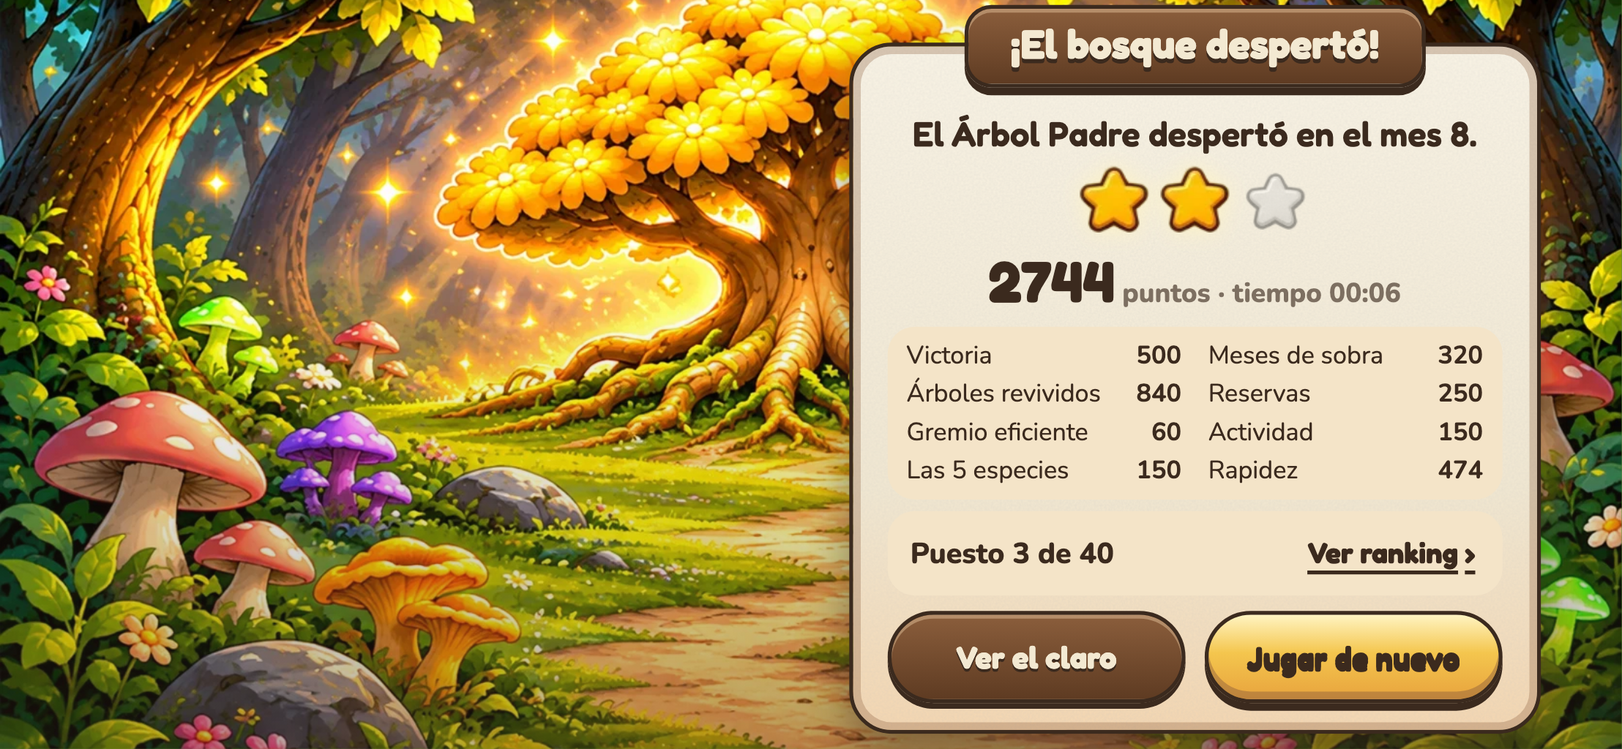
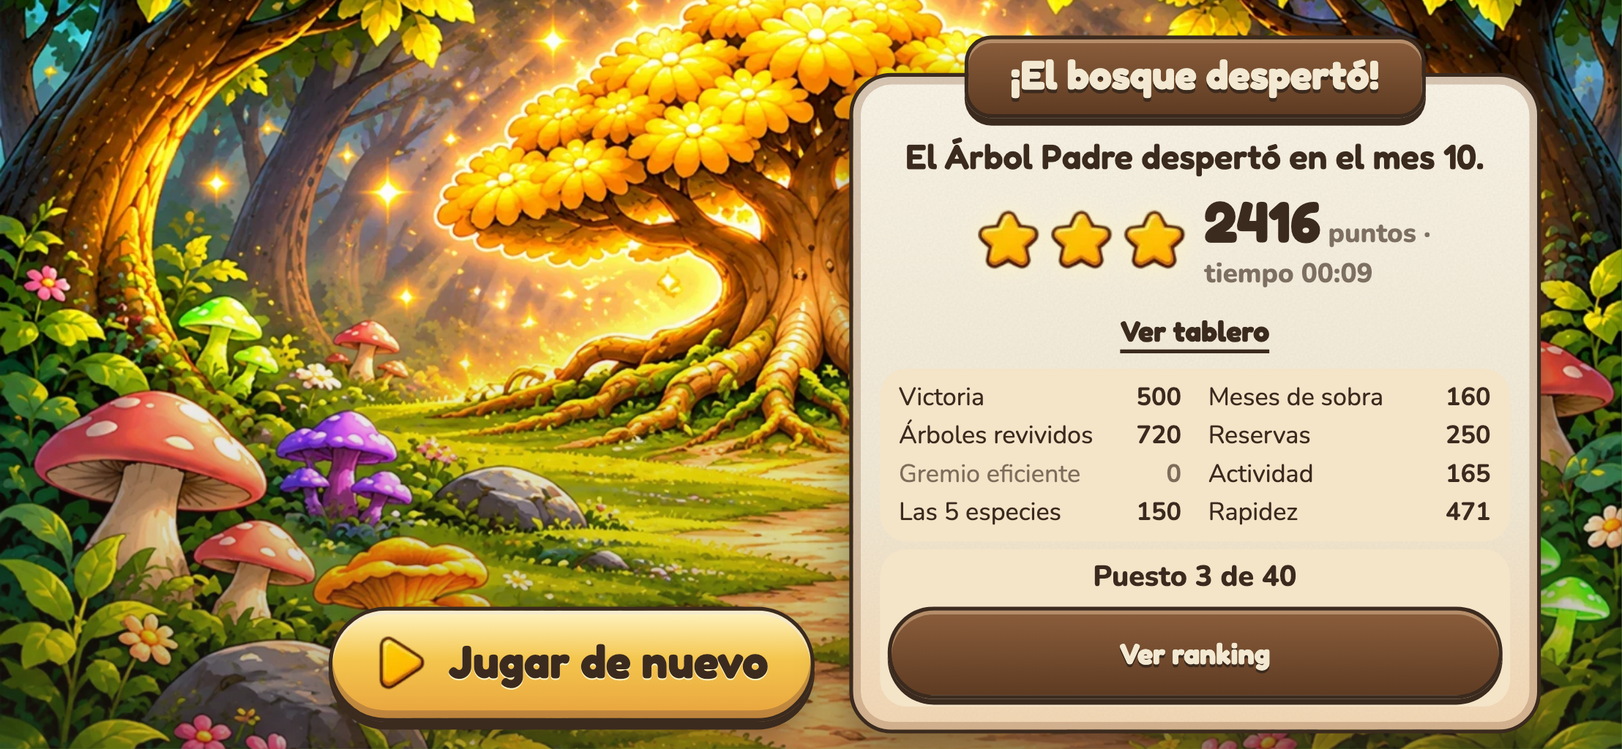
feat(037): «Jugar de nuevo» fuera de la carta y caja del ranking
Según el orden que pidió Mario: «Jugar de nuevo» va debajo de la carta,
grande y con icono como «Nueva partida»; «Ver el claro» pasa a «Ver
tablero», un enlace bajo el puntaje; la caja del ranking tiene «Registra
tu puntaje» como principal (con el foco) y «Ver ranking» como secundario.
En horizontal bajo, el botón va a la izquierda de la carta y estrellas y
puntaje comparten fila para que todo entre.

diff --git a/src/styles.css b/src/styles.css
@@ -1054,15 +1054,15 @@ button { font: inherit; color: inherit; }
 @keyframes new-pulse { 50% { transform: scale(1.08); } }
 /* Capas (022): hojas, cartas y pantallas suben 24 px y se funden con el fondo; al cerrar, bajan y salen sin atrapar toques. */
 :is(.sheet, .story, .screen):not([hidden]) { animation: fade-in var(--motion-standard) var(--ease-settle); }
-.sheet__panel, .story__card, .screen__panel.is-entering { animation: layer-in var(--motion-standard) var(--ease-settle); }
+.sheet__panel, .story__card, .story__again, .screen__panel.is-entering { animation: layer-in var(--motion-standard) var(--ease-settle); }
 .story[data-kind='mage'] .story__card { animation: layer-in var(--motion-narrative) var(--ease-soft); }
-.story__card.is-still { animation: none; }
+.story__card.is-still, .story__stack.is-still :is(.story__card, .story__again) { animation: none; }
 /* Intro: la carta nueva entra desde la derecha mientras la anterior sale a la izquierda; el punto activo crece. */
 .story__card.is-in { animation: card-in var(--motion-standard) var(--ease-settle); }
 .story__card.is-out { pointer-events: none; animation: card-out var(--motion-fast) var(--ease-leave) forwards; }
 .story__dot.is-active { animation: dot-in var(--motion-fast) var(--ease-springy); }
 :is(.sheet, .story, .screen).is-leaving { pointer-events: none; animation: fade-out var(--motion-fast) var(--ease-leave) forwards; }
-.sheet.is-leaving .sheet__panel, .story.is-leaving .story__card, .screen.is-leaving .screen__panel { animation: layer-out var(--motion-fast) var(--ease-leave) forwards; }
+.sheet.is-leaving .sheet__panel, .story.is-leaving .story__card, .story.is-leaving .story__again, .screen.is-leaving .screen__panel { animation: layer-out var(--motion-fast) var(--ease-leave) forwards; }
 @keyframes fade-in { from { opacity: 0; } }
 @keyframes fade-out { to { opacity: 0; } }
 @keyframes layer-in { from { opacity: 0; transform: translateY(24px); } }
@@ -1113,7 +1113,7 @@ button { font: inherit; color: inherit; }
   .story[data-bg='victory'] { background-image: linear-gradient(transparent 40%, color-mix(in srgb, var(--ink) 35%, transparent)), var(--art-bg-victory-wide); }
   /* El Árbol Padre queda al centro del fondo apaisado: la carta de final va a un costado. */
   .story[data-kind='won'], .story[data-kind='lost'] { align-items: center; justify-content: flex-end; padding-right: max(24px, 5vw); }
-  .story[data-kind='won'] .story__card, .story[data-kind='lost'] .story__card { width: min(360px, 46%); }
+  .story[data-kind='won'] .story__stack, .story[data-kind='lost'] .story__stack { width: min(360px, 46%); }
   body {
     background:
       linear-gradient(color-mix(in srgb, var(--ink) 30%, transparent), transparent 25%, transparent 70%, color-mix(in srgb, var(--ink) 40%, transparent)),
@@ -1132,11 +1132,11 @@ button { font: inherit; color: inherit; }
   .card.is-tired .card__badge { animation-name: zz-blink; }
   @keyframes zz-blink { 50% { opacity: 0.4; } }
   :is(.sheet, .story, .screen):not([hidden]),
-  .sheet__panel, .story__card, .screen__panel.is-entering, .story[data-kind='mage'] .story__card, .story__card.is-in { animation-name: fade-in; animation-duration: var(--motion-fast); }
+  .sheet__panel, .story__card, .story__again, .screen__panel.is-entering, .story[data-kind='mage'] .story__card, .story__card.is-in { animation-name: fade-in; animation-duration: var(--motion-fast); }
   .recipe__arrow, .recipe__after > *, .story__dot.is-active, .card.is-picked .portrait, .card.is-picked .card__medal, .card.is-waking, .end.is-turning .end__moon { animation: none; }
   .card[aria-pressed='true'] .portrait { transform: none; }
   .card.is-joining, .card.is-arriving, .hud__season.is-new-season, .portrait.is-new-season img { animation-name: fade-in; animation-duration: var(--motion-fast); }
-  .story__card.is-out, .sheet.is-leaving .sheet__panel, .story.is-leaving .story__card, .screen.is-leaving .screen__panel { animation-name: fade-out; }
+  .story__card.is-out, .sheet.is-leaving .sheet__panel, .story.is-leaving .story__card, .story.is-leaving .story__again, .screen.is-leaving .screen__panel { animation-name: fade-out; }
 }
 
 /* ─── Ranking (036) ─────────────────────────────────────────────────────────── */
@@ -1188,36 +1188,23 @@ button { font: inherit; color: inherit; }
 .alias__actions .btn, .alias__later { min-height: 48px; }
 .alias__later { width: 100%; }
 /* Cartas de final */
-/* Franja del ranking (037): estado a la izquierda, enlace a la derecha; aparte de las acciones de la carta. */
-.story__ranking {
-  display: flex;
-  flex-wrap: wrap;
-  align-items: center;
-  justify-content: space-between;
-  gap: 4px 8px;
-  padding: 6px 4px 6px 12px;
-  text-align: left;
-  border-radius: 14px;
-  background: color-mix(in srgb, var(--paper) 70%, var(--peach));
-}
-.story__ranking > p { flex: 1 1 150px; }
+/* Finales (037): la carta y, debajo y fuera de ella, «Jugar de nuevo» grande con icono. */
+.story__stack { display: flex; flex-direction: column; align-items: center; gap: 18px; width: min(400px, 100%); }
+.story__stack > .story__card { width: 100%; }
+.story__again { width: min(300px, 100%); }
+/* Caja del ranking: estado arriba y sus dos botones, «Registra tu puntaje» (principal) y «Ver ranking». */
+.story__ranking { display: grid; gap: 6px; padding: 8px; border-radius: 14px; background: color-mix(in srgb, var(--paper) 70%, var(--peach)); }
+.story__ranking .story__actions { margin-top: 0; flex-wrap: nowrap; gap: 8px; }
+.story__ranking .story__btn { flex: 1 1 auto; max-width: none; padding: 0 14px; font-size: 15px; white-space: nowrap; }
+.story__ranking .story__btn.is-primary { flex-grow: 1.4; }
 .story__ranking .story__note { font-size: 13px; line-height: 1.3; }
 .story__rank { margin: 0; font-size: 15px; font-weight: 700; }
-.story__register {
-  flex: 0 1 auto;
-  min-height: 44px;
-  padding: 0 16px;
-  color: var(--ink);
-  text-shadow: none;
-  background: color-mix(in srgb, var(--sun) 28%, var(--paper));
-  border-radius: 22px;
-  box-shadow: 0 2px 0 var(--ink);
-}
-.story__register:active { box-shadow: 0 0 0 var(--ink); }
+/* «Ver tablero»: enlace de texto bajo el puntaje (≥ 44 px de alto). */
 .story__link {
-  flex: 0 0 auto;
+  justify-self: center;
   min-height: 44px;
-  padding: 0 10px;
+  margin: -6px 0;
+  padding: 0 12px;
   font-family: var(--font-display);
   font-size: 15px;
   font-weight: 700;
@@ -1230,7 +1217,6 @@ button { font: inherit; color: inherit; }
   text-underline-offset: 4px;
   cursor: pointer;
 }
-.story__link::after { content: ' ›' / ''; }
 
 @media (orientation: landscape) and (max-height: 540px) {
   .ranking { display: grid; grid-template-columns: minmax(0, 1.4fr) minmax(0, 1fr); grid-template-rows: auto auto minmax(0, 1fr); column-gap: 16px; }
@@ -1239,9 +1225,15 @@ button { font: inherit; color: inherit; }
   .ranking > .ranking__retry { grid-row: 3; }
   .ranking > .ranking__list { grid-column: 1; grid-row: 2 / span 2; }
   .ranking > .ranking__foot { grid-column: 2; grid-row: 3; align-self: end; }
-  /* Carta de final apaisada (037): más compacta para que el letrero no se corte arriba. */
-  .story[data-kind='won'] .story__card { gap: 6px; padding-bottom: 14px; }
-  .story[data-kind='won'] .story__body { gap: 6px; }
-  .story[data-kind='won'] .score__star { width: 36px; height: 36px; }
-  .story__ranking { padding-block: 0; }
+  /* Carta de final apaisada (037): compacta, con estrellas y puntaje en una fila, y «Jugar de nuevo» a la izquierda. */
+  .story[data-kind='won'], .story[data-kind='lost'] { padding-block: 8px; align-items: flex-end; }
+  .story[data-kind='won'] .story__stack, .story[data-kind='lost'] .story__stack { width: auto; flex-direction: row-reverse; align-items: flex-end; }
+  .story__stack > .story__card { width: min(360px, 46vw); margin-top: 22px; padding: 30px 14px 12px; gap: 6px; }
+  .story__again { flex: 0 0 auto; width: auto; margin-bottom: 6px; white-space: nowrap; }
+  .story[data-kind='won'] .story__body { grid-template-columns: 1fr 1fr; align-items: center; gap: 4px 10px; }
+  .story[data-kind='won'] .story__body > * { grid-column: 1 / -1; }
+  .story[data-kind='won'] .story__body > .score__stars { grid-column: 1; justify-self: end; margin: 0; }
+  .story[data-kind='won'] .story__body > .score__total { grid-column: 2; justify-self: start; text-align: left; }
+  .story[data-kind='won'] .score__star { width: 32px; height: 32px; }
+  .story__ranking { padding: 4px; }
 }

diff --git a/src/ui/story.ts b/src/ui/story.ts
@@ -41,15 +41,13 @@ export function mountStory(root: HTMLElement, store: Store, onRestart: () => voi
     el('button', { class: `btn story__btn${primary ? ' story__btn--primary' : ''}`, type: 'button', 'data-action': action }, label);
 
   /**
-   * Franja del ranking en la carta de final (036, 037): el estado del envío a un lado y «Ver ranking» como enlace al
-   * otro, aparte de las acciones de la carta, para que «Jugar de nuevo» sea la única principal.
+   * Caja del ranking en la carta de final (036, 037): el estado del envío y sus dos botones, «Registra tu puntaje»
+   * (principal) y «Ver ranking» (secundario). «Jugar de nuevo» va fuera de la carta.
    */
   function rankingBlock(submission: Submission | null): HTMLElement {
     const L = es.leaderboard;
     const line = (() => {
       switch (submission?.kind) {
-        case 'unregistered':
-          return el('button', { class: 'btn story__register', type: 'button', 'data-action': 'register' }, L.register);
         case 'sending':
           return el('p', { class: 'story__rank' }, L.sending);
         case 'ok':
@@ -59,12 +57,15 @@ export function mountStory(root: HTMLElement, store: Store, onRestart: () => voi
         case 'rejected':
           return el('p', { class: 'story__note' }, L.rejected);
         default:
-          return el('p', { class: 'story__rank' }, L.title);
+          return null;
       }
     })();
+    const register = submission?.kind === 'unregistered'
+      ? [el('button', { class: 'btn story__btn is-primary', type: 'button', 'data-action': 'register', 'data-autofocus': '' }, L.register)]
+      : [];
     return el('div', { class: 'story__ranking', 'aria-live': 'polite' },
-      line,
-      el('button', { class: 'story__link', type: 'button', 'data-action': 'ranking' }, L.open));
+      ...(line ? [line] : []),
+      el('div', { class: 'story__actions' }, ...register, button('ranking', L.open)));
   }
 
   function card(state: AppState, story: Story): HTMLElement {
@@ -127,6 +128,7 @@ export function mountStory(root: HTMLElement, store: Store, onRestart: () => voi
               el('strong', {}, String(score.total)), ` ${es.scoring.total}`,
               el('span', { class: 'score__time' }, ` · ${es.scoring.time} ${formatClock(score.timeMs)}`)),
             ...(newRecord ? [el('p', { class: 'score__record' }, es.scoring.newRecord)] : []),
+            boardLink(),
             el('ul', { class: 'score__list', 'aria-label': es.scoring.title },
               ...SCORE_KEYS.map((k) =>
                 el('li', { class: `score__row${score.breakdown[k] ? '' : ' is-zero'}` },
@@ -146,22 +148,33 @@ export function mountStory(root: HTMLElement, store: Store, onRestart: () => voi
               stat(`${revivedCount(g)}/${treeTotal(g)}`, es.story.stats.trees),
               stat(String(g.nutrients), es.story.stats.nutrients),
               stat(String(g.spores), es.story.stats.spores)),
+            boardLink(),
           );
         }
         body.push(rankingBlock(won ? state.ui.submission : null));
-        actions.push(button('close', es.story.viewBoard), button('again', es.story.again, true));
         break;
       }
     }
-    return el(
+    const ending = story.kind === 'won' || story.kind === 'lost';
+    const dialog = { role: 'dialog', 'aria-modal': 'true', 'aria-labelledby': id };
+    const panel = el(
       'div',
-      { class: 'story__card', role: 'dialog', 'aria-modal': 'true', 'aria-labelledby': id },
+      { class: 'story__card', ...(ending ? {} : dialog) },
       ...(art ? [art] : []),
       el('h2', { id, class: 'story__title' }, title),
       el('div', { class: 'story__body' }, ...body),
-      el('div', { class: 'story__actions' }, ...actions),
+      ...(actions.length ? [el('div', { class: 'story__actions' }, ...actions)] : []),
     );
+    if (!ending) return panel;
+    // Finales (037): «Jugar de nuevo» va fuera de la carta, grande y con icono, como «Nueva partida» en la portada.
+    return el('div', { class: 'story__stack', ...dialog },
+      panel,
+      el('button', { class: 'menu-btn menu-btn--primary story__again', type: 'button', 'data-action': 'again', 'data-autofocus': '' },
+        el('span', { class: 'menu-btn__icon menu-btn__icon--play', 'aria-hidden': 'true' }), es.story.again));
   }
+
+  /** «Ver tablero» (037): enlace bajo el puntaje que cierra la carta y deja ver el claro terminado. */
+  const boardLink = () => el('button', { class: 'story__link story__board', type: 'button', 'data-action': 'close' }, es.story.viewBoard);
 
   /**
    * Al terminar la partida (022), la carta espera: al ganar, `narrative` para que se vean el anillo, el halo y la ola
@@ -235,6 +248,7 @@ export function mountStory(root: HTMLElement, store: Store, onRestart: () => voi
     root.dataset.kind = story.kind;
     root.dataset.bg = BACKGROUND[story.kind];
     showLayer(root);
-    next.querySelector<HTMLButtonElement>('.story__btn--primary')?.focus();
+    // Foco: el botón principal; en los finales, «Registra tu puntaje» si está y si no «Jugar de nuevo» (037).
+    next.querySelector<HTMLButtonElement>('[data-autofocus], .story__btn--primary')?.focus();
   }
 }

diff --git a/tests/smoke/leaderboard.spec.ts b/tests/smoke/leaderboard.spec.ts
@@ -98,13 +98,16 @@ test('registrar y volver: primer registro desde la carta, ranking encima de la c
   const calls = await mockApi(page);
   await page.goto('/');
   await winFromTitle(page);
-  // story-presentation › Finales: "Una acción principal" (037).
-  await expect(page.locator('#story .story__btn--primary')).toHaveCount(1);
-  await expect(page.locator('#story .story__btn--primary')).toHaveText('Jugar de nuevo');
-  await expect(page.locator('#story .story__btn--primary')).toBeFocused();
-  await expect(page.locator('#story .story__ranking').getByRole('button', { name: 'Registra tu puntaje' })).toBeVisible();
-  await expect(page.locator('#story .story__ranking').getByRole('button', { name: 'Ver ranking' })).toBeVisible();
-  await expect(page.locator('#story .story__actions button')).toHaveCount(2);
+  // story-presentation › Finales: "Acciones del final" (037).
+  const box = page.locator('#story .story__ranking');
+  await expect(box.getByRole('button', { name: 'Registra tu puntaje' })).toHaveClass(/is-primary/);
+  await expect(box.getByRole('button', { name: 'Registra tu puntaje' })).toBeFocused();
+  await expect(box.getByRole('button', { name: 'Ver ranking' })).not.toHaveClass(/is-primary/);
+  await expect(page.locator('#story .story__card').getByRole('button', { name: 'Jugar de nuevo' })).toHaveCount(0);
+  await expect(page.locator('#story .story__again')).toHaveText('Jugar de nuevo');
+  await expect(page.locator('#story .story__card .story__board')).toHaveText('Ver tablero');
+  await expect(page.locator('#story [role="dialog"]')).toHaveCount(1);
+  for (const b of await page.locator('#story button').evaluateAll((bs) => bs.map((x) => x.getBoundingClientRect().height))) expect(b).toBeGreaterThanOrEqual(44);
   const unregistered = shotFor('victoria-sin-registro', info.project.name, '037');
   if (unregistered) await page.screenshot({ path: unregistered });
   await page.getByRole('button', { name: 'Registra tu puntaje' }).click();

diff --git a/tests/story.test.ts b/tests/story.test.ts
@@ -69,7 +69,7 @@ describe('Requirement: Finales', () => {
     expect(next.ui.story).toEqual({ kind: 'lost' });
   });
 
-  it('"Ver el claro" cierra la carta y "Jugar de nuevo" empieza otra partida conservando las fichas vistas', () => {
+  it('"Ver tablero" cierra la carta y "Jugar de nuevo" empieza otra partida conservando las fichas vistas', () => {
     const lost = run(initialState({ ...newGame(), month: 12 }, ['champi']), { type: 'endMonth' });
     expect(run(lost, { type: 'closeStory' }).ui.story).toBeNull();
     const again = run(lost, { type: 'restart', game: newGame() });
@@ -79,7 +79,7 @@ describe('Requirement: Finales', () => {
     expect(again.ui.seen).toEqual(['champi']);
   });
 
-  it('Scenario: Volver al final — tras "Ver el claro", "Ver final" reabre la carta', () => {
+  it('Scenario: Volver al final — tras "Ver tablero", "Ver final" reabre la carta', () => {
     const lost = run(initialState({ ...newGame(), month: 12 }), { type: 'endMonth' }, { type: 'closeStory' });
     expect(run(lost, { type: 'showEnd' }).ui.story).toEqual({ kind: 'lost' });
     const g = nearWin();

diff --git a/tests/smoke/board.spec.ts b/tests/smoke/board.spec.ts
@@ -444,7 +444,7 @@ test('Historia: intro de 3 cartas, llegada de la maga y finales', async ({ page 
   await page.locator('.cell[data-valid="true"][aria-label*="Padre"]').click();
   await expect(card).toContainText('¡El bosque despertó!');
   await shot('victoria');
-  await page.getByRole('button', { name: 'Ver el claro' }).click();
+  await page.getByRole('button', { name: 'Ver tablero' }).click();
   await expect(card).toHaveCount(0);
   // Partida terminada (017): el botón de fin de mes vuelve a la carta; también con teclado.
   const end = page.getByRole('button', { name: 'Ver el final de la partida' });

diff --git a/src/store.ts b/src/store.ts
@@ -119,7 +119,7 @@ export type Action =
   | { type: 'start'; game: GameState; intro: boolean }
   | { type: 'storyNext' }
   | { type: 'closeStory' }
-  /** "Ver final" tras "Ver el claro": la partida terminada vuelve a su carta de final (017). */
+  /** "Ver final" tras "Ver tablero": la partida terminada vuelve a su carta de final (017). */
   | { type: 'showEnd' }
   /** Partida nueva (la crea quien llama: el store no usa azar). */
   | { type: 'restart'; game: GameState }

diff --git a/src/copy/es.ts b/src/copy/es.ts
@@ -430,7 +430,7 @@ export const es = {
     lostTip: 'Consejo: revive árboles temprano. Cada árbol vivo da esporas cada mes.',
     summary: 'Resumen',
     stats: { month: 'mes', trees: 'árboles', nutrients: 'nutrientes', spores: 'esporas' },
-    viewBoard: 'Ver el claro',
+    viewBoard: 'Ver tablero',
     again: 'Jugar de nuevo',
   },
 

diff --git a/openspec/changes/037-ending-actions/specs/story-presentation/spec.md b/openspec/changes/037-ending-actions/specs/story-presentation/spec.md
@@ -3,16 +3,16 @@
 ## MODIFIED Requirements
 
 ### Requirement: Finales
-Al ganar o al terminar el invierno, el juego SHALL mostrar una carta de final con las opciones "Ver el claro", "Jugar de nuevo" y "Ver ranking". "Jugar de nuevo" SHALL empezar una partida nueva sin repetir la intro y SHALL ser la única acción principal de la carta. "Ver el claro" SHALL ser secundaria. El ranking SHALL ir en una franja propia, separada de esas dos acciones: el estado (`leaderboard`) a un lado y "Ver ranking" como enlace al otro. La carta de victoria SHALL mostrar las estrellas (con "N de 3 estrellas" como nombre accesible, legible sin color), el total, el tiempo, el desglose por componente en una lista corta, "Nuevo récord" si supera el mejor resultado local (`scoring`) y el estado del ranking: «Registra tu puntaje», el puesto, «Tu mejor: N» o el aviso sin conexión. La carta del fin del invierno SHALL mostrar el resumen (mes, árboles revividos, nutrientes y esporas), sin puntaje ni estrellas. Tras "Ver el claro", la partida terminada SHALL seguir teniendo salida: el botón de fin de mes SHALL decir "Ver final" y volver a abrir la carta de final.
+Al ganar o al terminar el invierno, el juego SHALL mostrar una carta de final con las opciones "Ver tablero", "Jugar de nuevo" y "Ver ranking". "Jugar de nuevo" SHALL empezar una partida nueva sin repetir la intro; SHALL ir fuera de la carta, debajo (en horizontal bajo, a su lado), como un botón grande con icono, igual que "Nueva partida" en la portada. "Ver tablero" SHALL ser un enlace debajo de las estrellas y el puntaje (en la derrota, debajo del resumen) que cierra la carta. El ranking SHALL ir en una caja dentro de la carta con el estado (`leaderboard`) y dos botones: «Registra tu puntaje» como principal y "Ver ranking" como secundario. La carta de victoria SHALL mostrar las estrellas (con "N de 3 estrellas" como nombre accesible, legible sin color), el total, el tiempo, el desglose por componente en una lista corta, "Nuevo récord" si supera el mejor resultado local (`scoring`) y el estado del ranking: «Registra tu puntaje», el puesto, «Tu mejor: N» o el aviso sin conexión. La carta del fin del invierno SHALL mostrar el resumen (mes, árboles revividos, nutrientes y esporas), sin puntaje ni estrellas. Tras "Ver tablero", la partida terminada SHALL seguir teniendo salida: el botón de fin de mes SHALL decir "Ver final" y volver a abrir la carta de final.
 
 #### Scenario: Victoria
 - WHEN la Amanita muscaria despierta al Árbol Padre en el mes 8
-- THEN la carta dice "El Árbol Padre despertó en el mes 8." y muestra estrellas, total, tiempo, desglose y "Ver ranking"
+- THEN la carta dice "El Árbol Padre despertó en el mes 8." y muestra estrellas, total, tiempo, "Ver tablero", desglose y "Ver ranking"
 
-#### Scenario: Una acción principal
+#### Scenario: Acciones del final
 - WHEN aparece la carta de victoria de un jugador sin registrar
-- THEN "Jugar de nuevo" es el único botón principal y tiene el foco
-- AND «Registra tu puntaje» y "Ver ranking" están en la franja del ranking, aparte de "Ver el claro" y "Jugar de nuevo"
+- THEN la caja del ranking tiene «Registra tu puntaje» como botón principal, con el foco, y "Ver ranking" como secundario
+- AND "Jugar de nuevo" está fuera de la carta y "Ver tablero" es un enlace bajo el puntaje
 
 #### Scenario: Estrellas sin color
 - WHEN la victoria vale 2 estrellas
@@ -23,6 +23,13 @@ Al ganar o al terminar el invierno, el juego SHALL mostrar una carta de final co
 - THEN la carta dice "El bosque esperará la próxima primavera.", sugiere revivir árboles temprano, no muestra puntaje y ofrece "Ver ranking"
 
 #### Scenario: Volver al final
-- WHEN la partida terminó y el jugador eligió "Ver el claro"
+- WHEN la partida terminó y el jugador eligió "Ver tablero"
 - THEN el botón de fin de mes dice "Ver final" y está activo
 - AND al tocarlo vuelve la carta de final con "Jugar de nuevo"
+
+### Requirement: Cartas accesibles
+Las cartas SHALL ser modales: el foco va al botón principal al abrirse (en la carta de victoria sin registrar, «Registra tu puntaje»; si no, "Jugar de nuevo"), Esc las cierra y el foco vuelve al juego. Cada carta usa su fondo pintado, que se descarga solo cuando se muestra.
+
+#### Scenario: Teclado
+- WHEN se abre la intro y el jugador pulsa Esc
+- THEN la carta se cierra y se ve el tablero

diff --git a/openspec/changes/037-ending-actions/proposal.md b/openspec/changes/037-ending-actions/proposal.md
@@ -1,12 +1,13 @@
 # 037 · Acciones de la carta de final
 
 ## Por qué
-Mario pidió el 10 de noviembre de 2026 mejorar la posición de los botones de la carta de victoria: con el ranking (036) quedaron cuatro botones del mismo tamaño compitiendo, y dos de ellos dorados («Registra tu puntaje» y «Jugar de nuevo»). No se sabe cuál es la acción principal.
+Mario pidió el 10 de noviembre de 2026 mejorar la posición de los botones de la carta de victoria. Con el ranking (036) quedaron cuatro botones del mismo tamaño compitiendo, dos de ellos dorados («Registra tu puntaje» y «Jugar de nuevo»), y no se sabía cuál era la acción principal. Una primera versión (franja con enlace) seguía haciendo competir los botones. Mario definió el orden final.
 
-## Qué cambia (solo presentación)
-- **Una sola acción principal:** «Jugar de nuevo» es el único botón dorado y de tamaño completo. «Ver el claro» queda a su lado como secundario (madera). Los dos cierran la carta abajo, como antes.
-- **Franja del ranking:** el ranking va en una franja propia entre el desglose y los botones, con el mismo fondo suave del desglose. A la izquierda va el estado («Registra tu puntaje», «Puesto N de M · Tu mejor: N», «Enviando…» o el aviso). A la derecha va «Ver ranking» como enlace de texto con flecha (área táctil ≥ 44 px).
-- **«Registra tu puntaje»** pasa a ser un botón compacto de papel con borde de tinta y un tinte dorado suave. Se distingue del principal sin competir con él.
-- En la carta del fin del invierno, la franja dice «Ranking» y ofrece «Ver ranking».
+## Qué cambia (presentación y un texto)
+- **«Jugar de nuevo» sale de la carta:** va debajo de ella, grande y con el icono de jugar, como «Nueva partida» en la portada. En horizontal bajo (≤ 540 px de alto) va a la izquierda de la carta, abajo, para que todo entre sin scroll.
+- **«Ver el claro» pasa a llamarse «Ver tablero»** y es un enlace de texto debajo de las estrellas y el puntaje (en la derrota, debajo del resumen). Hace lo mismo: cierra la carta y deja ver el claro terminado.
+- **Caja del ranking** dentro de la carta, con el fondo suave del desglose: el estado arriba («Puesto N de M», «Enviando…» o el aviso) y dos botones, **«Registra tu puntaje»** como principal (dorado) y **«Ver ranking»** como secundario (madera). Ya registrado, queda solo «Ver ranking».
+- **Foco inicial:** «Registra tu puntaje» si está, y si no «Jugar de nuevo». La carta y el botón de fuera forman un solo diálogo (`role="dialog"`).
+- **Horizontal bajo:** estrellas y puntaje van en una fila para que la carta quepa entera.
 
-No cambian las reglas, los textos (salvo la flecha del enlace, que es decorativa), el foco inicial (va a «Jugar de nuevo») ni el orden del teclado.
+No cambian las reglas ni el comportamiento de «Ver final».

diff --git a/openspec/changes/037-ending-actions/tasks.md b/openspec/changes/037-ending-actions/tasks.md
@@ -1,11 +1,13 @@
 # Tareas · 037
 
 ## 1. Carta de final
-- [x] 1.1 Franja del ranking: estado a la izquierda y «Ver ranking» como enlace a la derecha (`src/ui/story.ts`, `src/styles.css`).
-- [x] 1.2 «Registra tu puntaje» como botón compacto secundario; «Jugar de nuevo» como única acción principal.
+- [x] 1.1 «Jugar de nuevo» fuera de la carta, grande y con icono (`menu-btn--primary`); en horizontal bajo, a la izquierda de la carta.
+- [x] 1.2 «Ver tablero» (antes «Ver el claro») como enlace bajo las estrellas y el puntaje (`src/copy/es.ts`).
+- [x] 1.3 Caja del ranking: estado y dos botones, «Registra tu puntaje» principal y «Ver ranking» secundario; foco inicial en «Registra tu puntaje» si está.
 
 ## 2. Pruebas
-- [x] 2.1 `npm run test`, `npm run build` y humo del ranking; capturas `docs/screenshots/037-*` a 390 × 844 y 844 × 390.
+- [x] 2.1 Humo «Acciones del final» en `leaderboard.spec.ts`; textos de `story.test.ts` y `board.spec.ts`.
+- [x] 2.2 `npm run test`, `npm run build` y humo; capturas `docs/screenshots/037-*` a 390 × 844 y 844 × 390.
 
 ## 3. Cierre
 - [ ] 3.1 Fusionar el delta y archivar.
